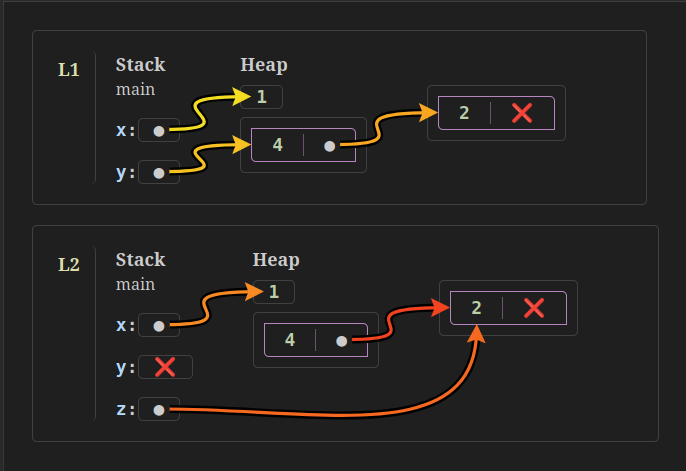
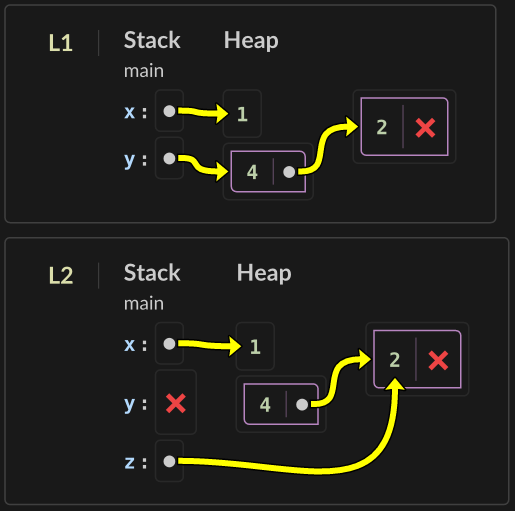
regen demo image

diff --git a/kaya_ts/test.html b/kaya_ts/test.html
@@ -63,6 +63,31 @@ q: ptr(x')
 ## Heap
 </pre>
 
+<p>Example from the <code>README.md</code> page:</p>
+<pre class="kaya">
+# L1
+## Stack
+### main
+x: ptr(H0)
+y: ptr(H1)
+## Heap
+H0: 1
+H1: (4, ptr(H2))
+##
+H2: (2, *)
+
+# L2
+## Stack
+### main
+x: ptr(H0)
+y: *
+z: ptr(H2.0).ds
+## Heap
+H0: 1
+H1: (4, ptr(H2))
+##
+H2: (2, *)
+</pre>
 
 <script type="module">
 
